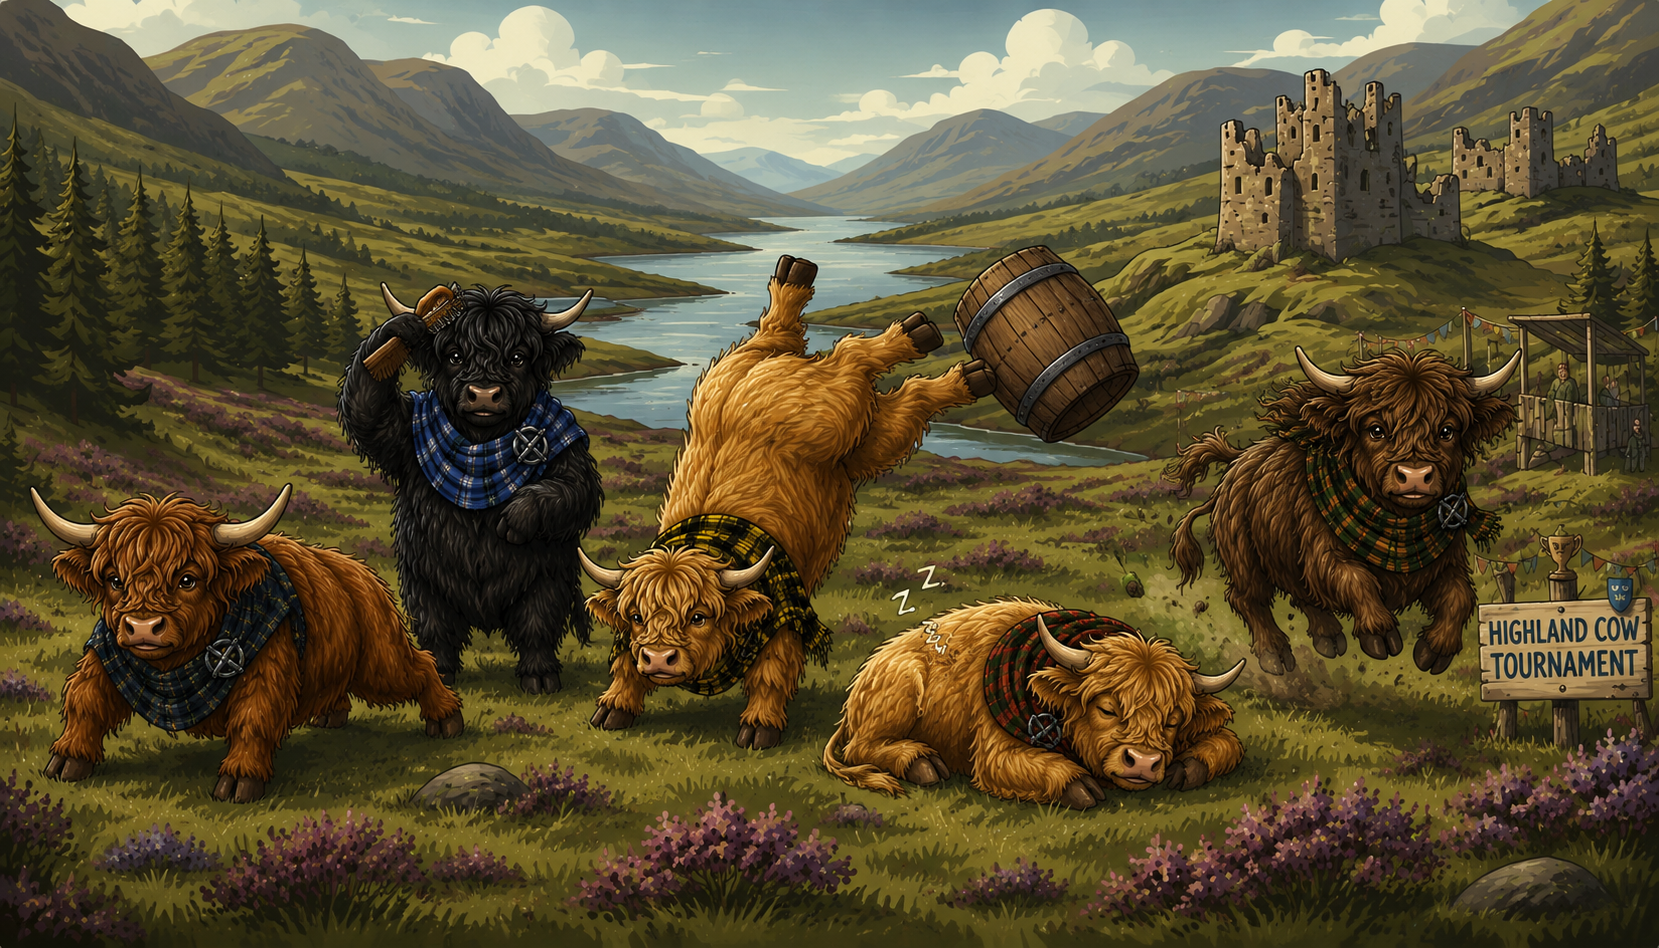
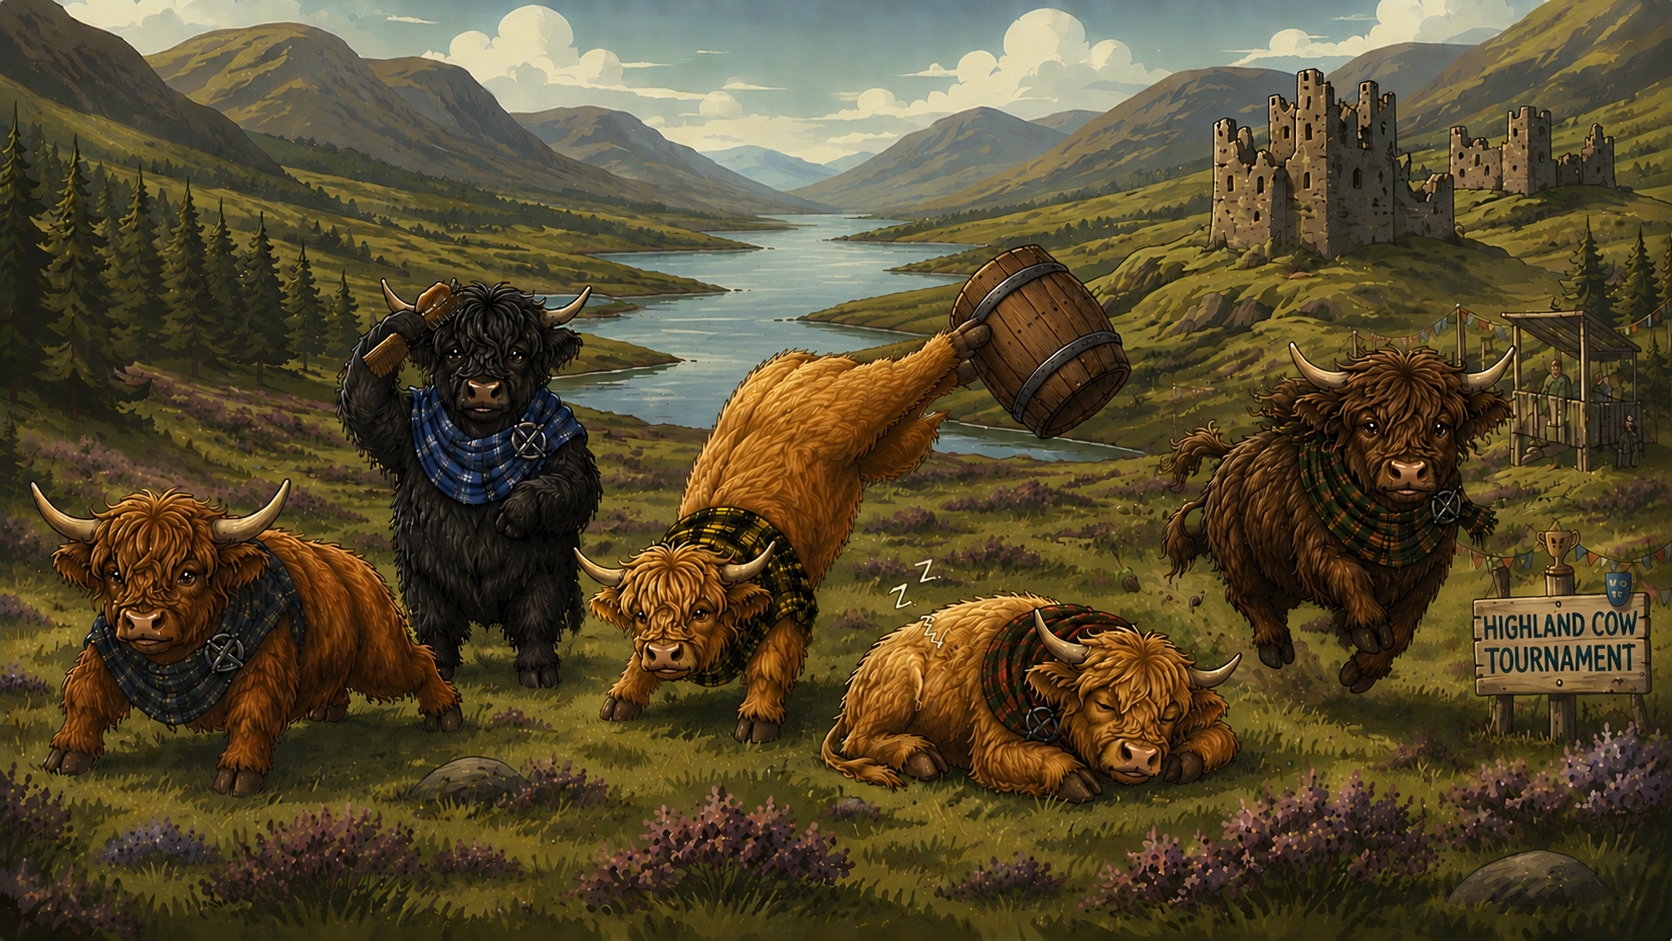
cows

diff --git a/javascript/header.js b/javascript/header.js
@@ -2,18 +2,32 @@ let header = document.getElementById("header");
 
 let contentNav = `
 <nav>
-        <div id="left-side">
-            <h1>Highland Cow</h1>
-            <h5>Tournament</h5>
-        </div>
-        <div id="right-side">
-            <a href="nav.html" id="start-Button">Start</a>
-            <a href="season.html" id="season-Button">Season</a>
-            <a href="event_page.html" id="event-Button">Event</a>
-            <a href="clanPage.html" id="clans-Button">Clans</a>
-            <a href="history.html" id="history-Button">History</a>
-        </div>
-    </nav>
+    <div id="left-side">
+        <h1>Highland Cow</h1>
+        <h5>Tournament</h5>
+    </div>
+    <div id="right-side">
+        <a href="nav.html" id="start-Button">
+        Start
+        </a>
+
+        <a href="season.html" id="season-Button">
+        Season
+        </a>
+
+        <a href="event_page.html" id="event-Button">
+        Event
+        </a>
+
+        <a href="clanPage.html" id="clans-Button">
+        Clans
+        </a>
+        
+        <a href="history.html" id="history-Button">
+        History
+        </a>
+    </div>
+</nav>
 `
 
 function createHeader() {
@@ -22,15 +36,3 @@ function createHeader() {
 createHeader()
 
 
-let clanLinks = document.querySelectorAll(".clanLink");
-let homePage = document.getElementById("start-button");
-
-for (let link of clanLinks) {
-
-    link.addEventListener("click", function (event) {
-        event.preventDefault();
-        let selectedClan = link.dataset.clan;
-        localStorage.setItem("selectedClan", selectedClan);
-        window.location.href = "../html/clanPage.html";
-    });
-};

diff --git a/CSS/clanPage.css b/CSS/clanPage.css
@@ -1,3 +1,13 @@
+.buttonClans {
+    width: 150px;
+    font-size: 14px;
+    padding: 5px;
+}
+
+.buttonClans p {
+    margin: 5px;
+}
+
 #chart {
     display: flex;
     justify-content: center;
@@ -22,6 +32,12 @@
     width: auto;
     height: 200px;
     object-fit: contain;
+}
+
+#cowsCompeteIMG {
+    width: 1200px;
+    margin-top: 30px;
+    border-radius: 20px;
 }
 
 .clanMember {
@@ -85,6 +101,12 @@
     padding: 30px 10px;
     position: relative;
     z-index: 2;
+}
+
+#greatClans {
+    font-family: "Irish Grover";
+    font-size: 50px;
+    text-align: center;
 }
 
 
@@ -212,10 +234,4 @@
     justify-content: center;
     align-items: center;
     margin: 20px 0px;
-}
-
-.buttonClans {
-    width: 150px;
-    font-size: 16px;
-    padding: 5px;
 }

diff --git a/javascript/clanPage.js b/javascript/clanPage.js
@@ -2,12 +2,15 @@
 //Variabler
 let main = document.querySelector("main");
 let contentClanHomepage = document.getElementById("content");
+let cowInCompetition = document.getElementById("cowInCompetition");
 let backButton = document.getElementById("backButton");
 let h1ClanName = document.getElementById("clanName");
 let tartanDiv = document.getElementById("tartan");
 let crestDiv = document.getElementById("crest");
 let clanHistory = document.getElementById("history");
 let clanMembersDIV = document.getElementById("clanMembers");
+let activeMembers = document.getElementById("activeMembers");
+let notActiveMembers = document.getElementById("notActiveMembers");
 let activeCow = document.getElementById("activeCows");
 let notActiveCow = document.getElementById("notAcriveCows");
 let clanInfo = document.getElementById("clanInfo");
@@ -157,6 +160,7 @@ function membersClan(clanName) {
 }
 
 function showClanHomePage(clanName) {
+    cowInCompetition.style.display = "none";
     contentClanHomepage.style.display = "flex";
     crestDiv.innerHTML = "";
     tartanDiv.innerHTML = "";
@@ -219,12 +223,12 @@ function allMembersPictures(clanName) {
             popUpCowInfo.style.display = "flex"
             setActiveButton(s9);
             currentSeason = 8;
-            setActiveMember(imgDIV);
+            setClickedMember(imgDIV);
             personalInfo(player_id);
             drawAllArcs(player_id, currentSeason);
         });
 
-        function setActiveMember(clickedMember) {
+        function setClickedMember(clickedMember) {
             let allCowImages = document.querySelectorAll(".cowMembers");
             for (let img of allCowImages) {
                 img.classList.remove("memberChoosen");
@@ -745,6 +749,6 @@ function drawAllArcs(player_id, year) {
 
 
 //===========================//
-//===== FUNKTIONSANROP =====//
+//===== ANROP =====//
 //===========================//
-
+cowInCompetition.style.display = "block";

diff --git a/html/clanPage.html b/html/clanPage.html
@@ -31,6 +31,11 @@
                 <p>MacKinnon</p>
             </button>
         </div>
+
+        <div id="cowInCompetition">
+            <h1 id="greatClans">The Great Clans of Scotland</h1>
+            <img id="cowsCompeteIMG" src="../pic/Bakgrunder/korTävlar.png" alt="">
+        </div>
         <div id="content">
 
             <div class="DIV-flex">
@@ -51,7 +56,10 @@
 
             <div class="DIV-flex">
                 <h3>Members</h3>
-                <div id="clanMembers"></div>
+                <div id="clanMembers">
+                    <div id="activeMembers"></div>
+                    <div id="notActiveMembers"></div>
+                </div>
             </div>
 
             <div id="popUpCowInfo">